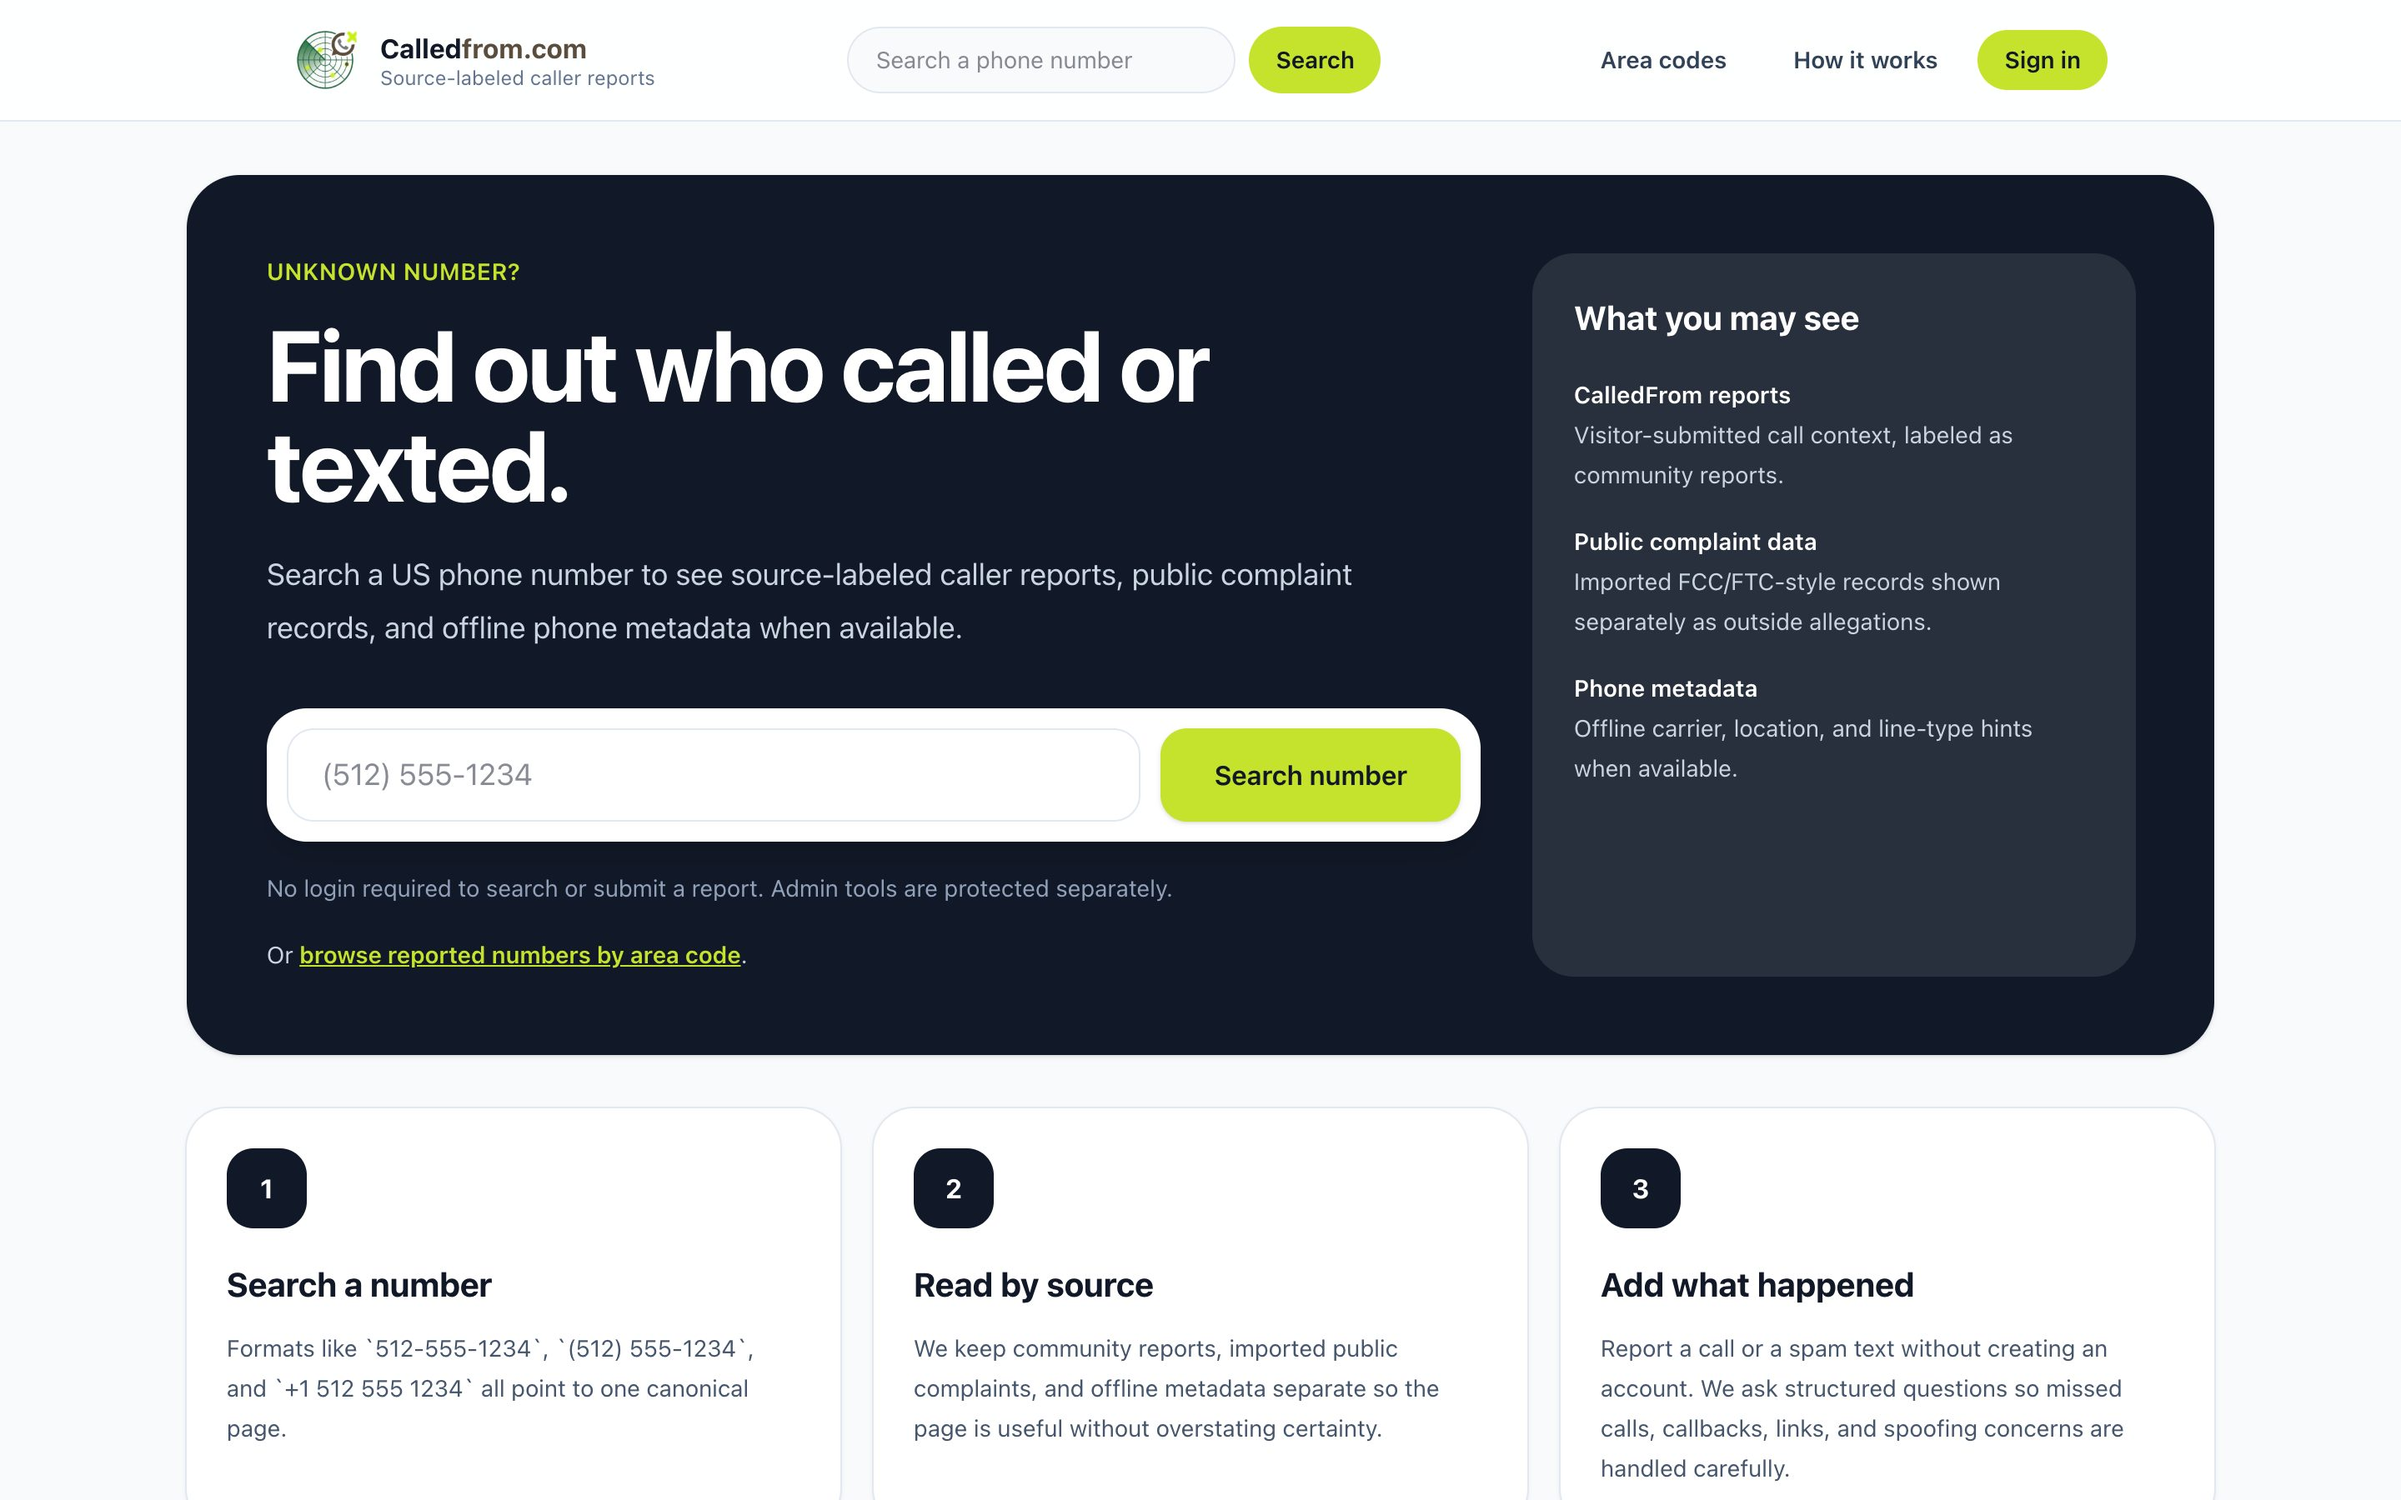
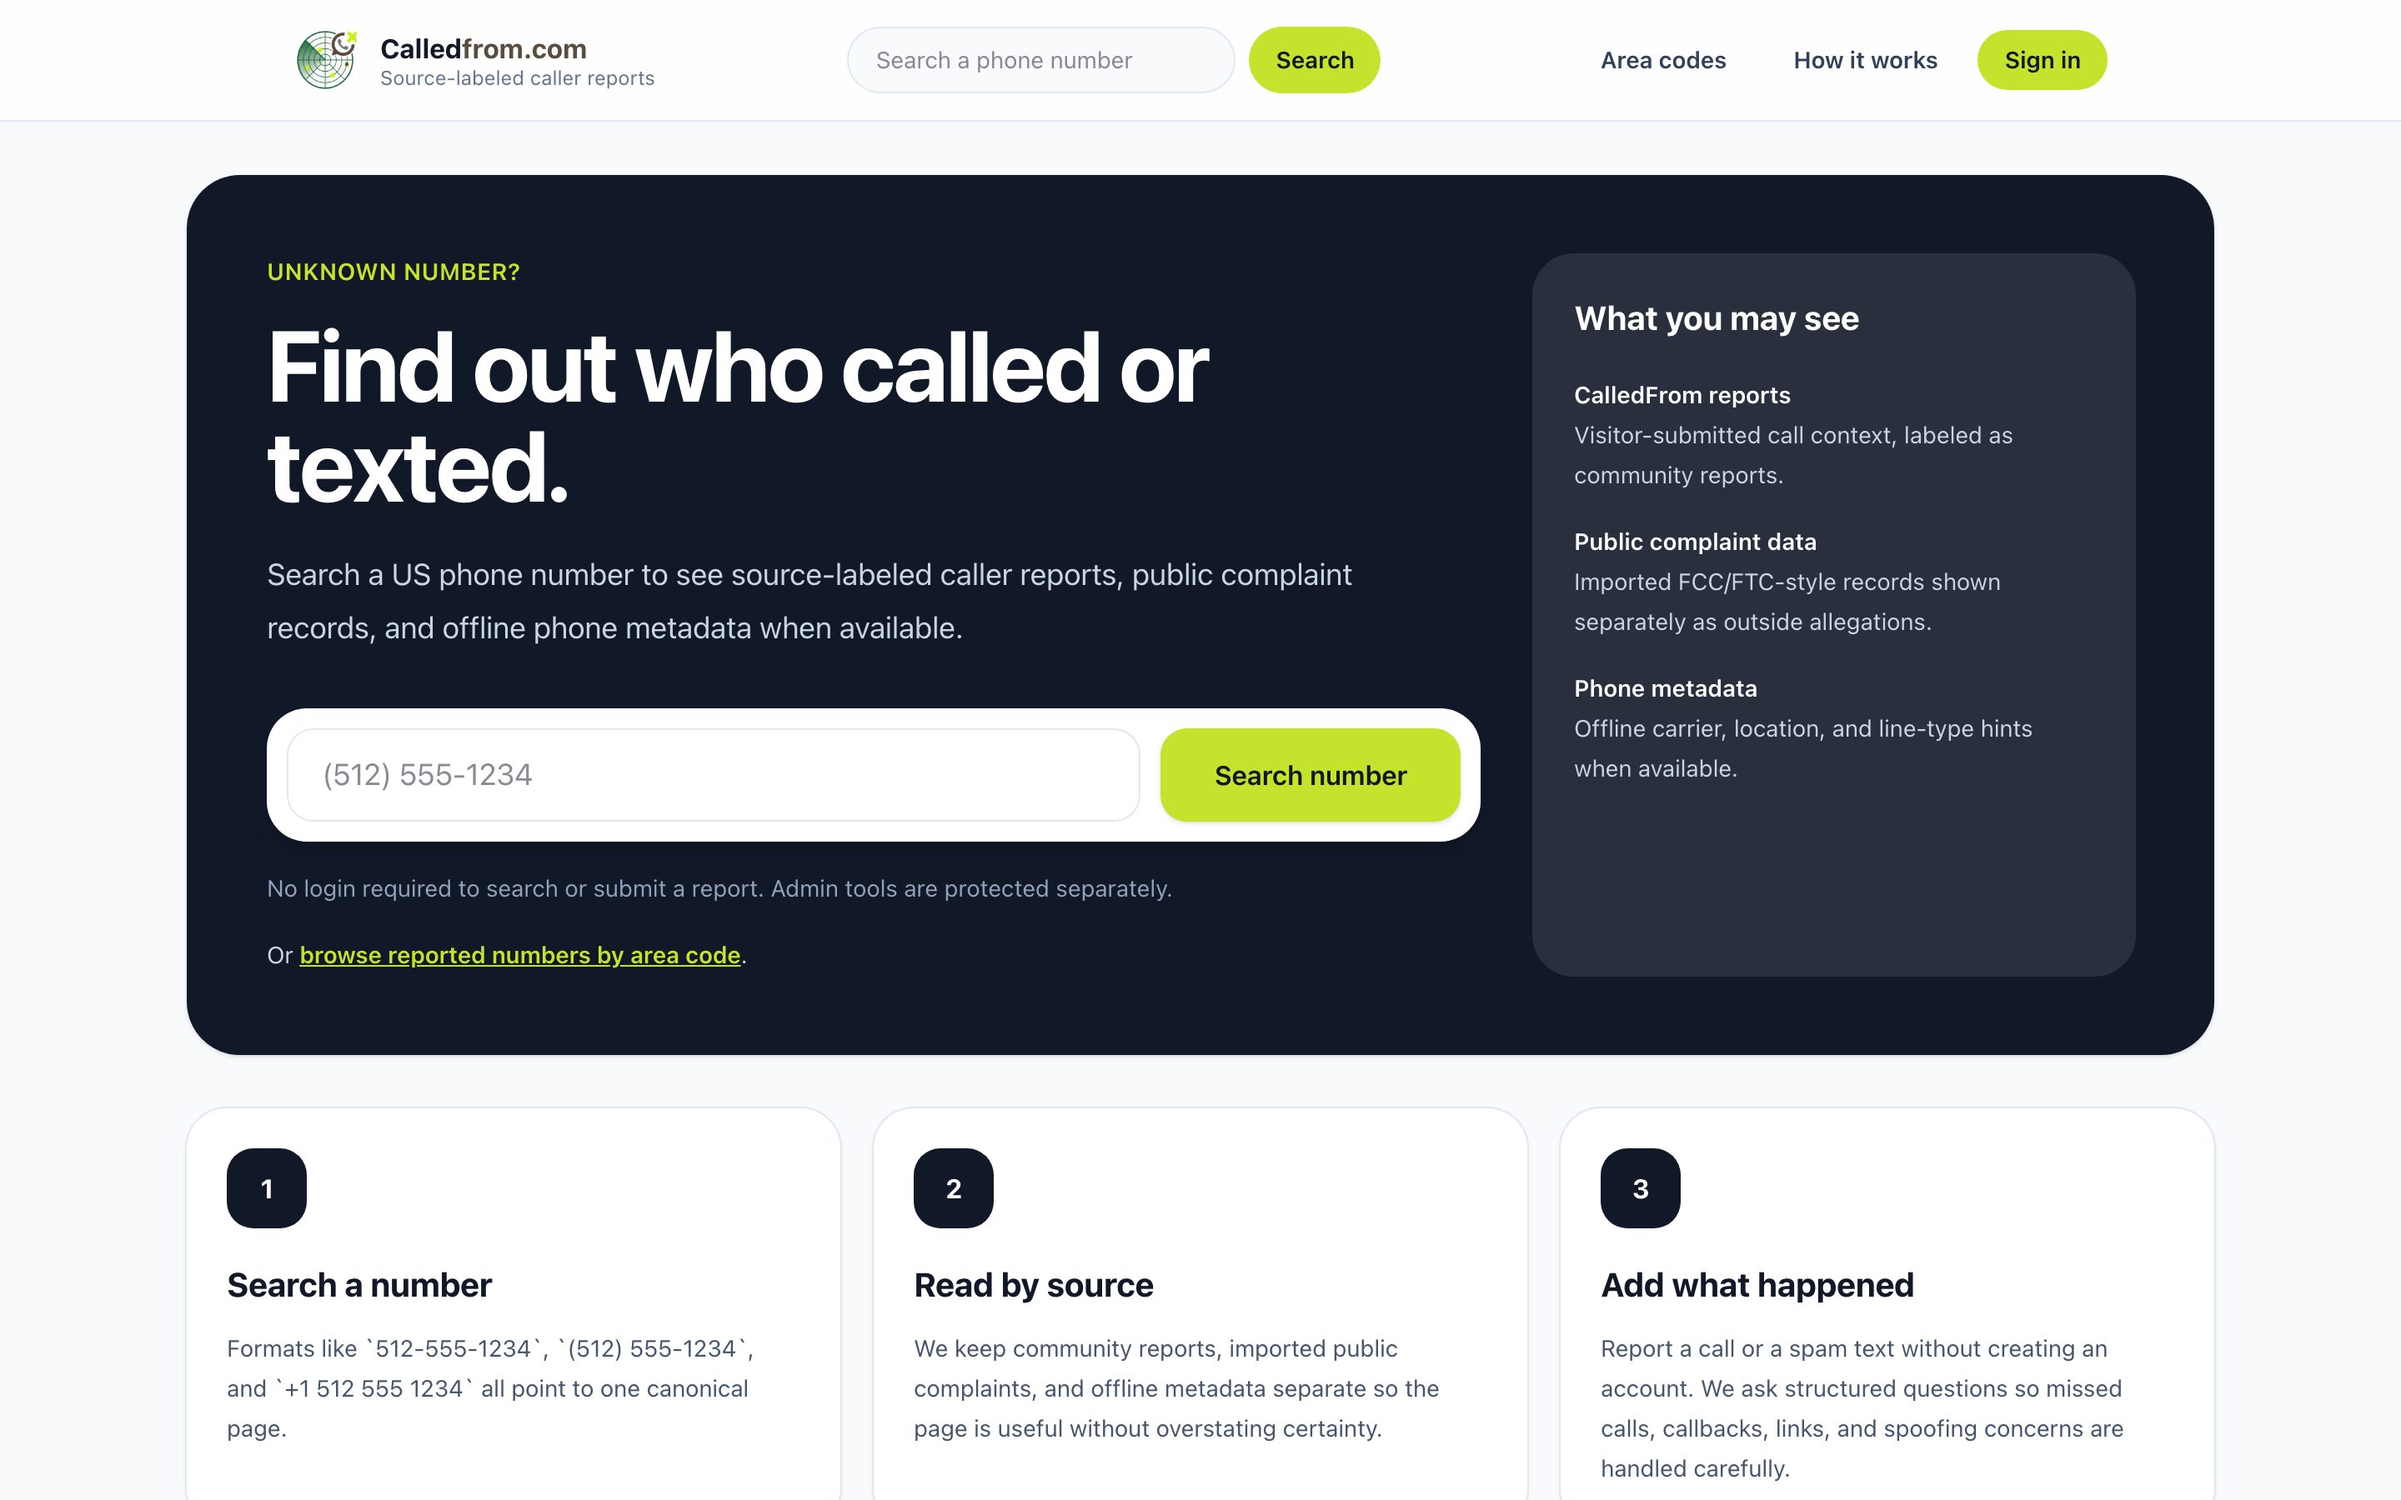
Fix blank CalledFrom card caused by rail reveal opacity.
Work panels sit offscreen horizontally so scroll-reveal never flips them visible; show them always and refresh the static JPEG.

Changed region(s): [[0.5312, 0.4978, 0.5625, 0.5289]]

diff --git a/index.html b/index.html
@@ -27,7 +27,7 @@
         href="https://fonts.googleapis.com/css2?family=Instrument+Sans:ital,wght@0,400;0,500;0,600;0,700;1,400&family=Syne:wght@600;700;800&display=swap"
         rel="stylesheet">
 
-    <link rel="stylesheet" href="style.css?v=atelier12">
+    <link rel="stylesheet" href="style.css?v=atelier13">
 </head>
 
 <body>
@@ -75,7 +75,7 @@
             <div class="work-rail-wrap">
                 <div class="work-rail" id="work-rail" tabindex="0" aria-label="Shipped systems">
                     <div class="work-track" id="work-track">
-                        <article class="work-panel reveal" data-reveal>
+                        <article class="work-panel">
                             <div class="work-shot" aria-hidden="true">
                                 <div class="work-shot__chrome"><span></span><span></span><span></span></div>
                                 <div class="work-shot__frame">
@@ -91,7 +91,7 @@
                                 </div>
                             </div>
                         </article>
-                        <article class="work-panel reveal" data-reveal>
+                        <article class="work-panel">
                             <div class="work-shot" aria-hidden="true">
                                 <div class="work-shot__chrome"><span></span><span></span><span></span></div>
                                 <div class="work-shot__frame">
@@ -107,7 +107,7 @@
                                 </div>
                             </div>
                         </article>
-                        <article class="work-panel reveal" data-reveal>
+                        <article class="work-panel">
                             <div class="work-shot" aria-hidden="true">
                                 <div class="work-shot__chrome"><span></span><span></span><span></span></div>
                                 <div class="work-shot__frame">
@@ -123,7 +123,7 @@
                                 </div>
                             </div>
                         </article>
-                        <article class="work-panel reveal" data-reveal>
+                        <article class="work-panel">
                             <div class="work-shot" aria-hidden="true">
                                 <div class="work-shot__chrome"><span></span><span></span><span></span></div>
                                 <div class="work-shot__frame">
@@ -139,11 +139,11 @@
                                 </div>
                             </div>
                         </article>
-                        <article class="work-panel reveal" data-reveal>
+                        <article class="work-panel">
                             <div class="work-shot" aria-hidden="true">
                                 <div class="work-shot__chrome"><span></span><span></span><span></span></div>
                                 <div class="work-shot__frame">
-                                    <img src="images/work/calledfrom.jpg?v=filled1" alt="" width="1440" height="900" loading="lazy" decoding="async">
+                                    <img src="images/work/calledfrom.jpg?v=filled2" alt="" width="1440" height="900" loading="lazy" decoding="async">
                                 </div>
                             </div>
                             <div class="work-body">
@@ -240,7 +240,7 @@
         </div>
     </footer>
 
-    <script src="script.js?v=atelier12"></script>
+    <script src="script.js?v=atelier13"></script>
 </body>
 
 </html>

diff --git a/studio.css b/studio.css
@@ -728,9 +728,12 @@ body {
     will-change: auto;
 }
 
-/* Horizontal rail panels: opacity only — vertical lift fights page scroll */
-.js-ready .work-panel.reveal {
-    transform: none;
+/* Horizontal rail panels never use reveal opacity — off-screen cards
+   would stay invisible because IntersectionObserver can't see them. */
+.js-ready .work-panel.reveal,
+.js-ready .work-panel {
+    opacity: 1;
+    will-change: auto;
 }
 
 @media (prefers-reduced-motion: reduce) {

diff --git a/style.css b/style.css
@@ -728,9 +728,12 @@ body {
     will-change: auto;
 }
 
-/* Horizontal rail panels: opacity only — vertical lift fights page scroll */
-.js-ready .work-panel.reveal {
-    transform: none;
+/* Horizontal rail panels never use reveal opacity — off-screen cards
+   would stay invisible because IntersectionObserver can't see them. */
+.js-ready .work-panel.reveal,
+.js-ready .work-panel {
+    opacity: 1;
+    will-change: auto;
 }
 
 @media (prefers-reduced-motion: reduce) {

diff --git a/contact.html b/contact.html
@@ -23,7 +23,7 @@
         href="https://fonts.googleapis.com/css2?family=Instrument+Sans:ital,wght@0,400;0,500;0,600;0,700;1,400&family=Syne:wght@600;700;800&display=swap"
         rel="stylesheet">
 
-    <link rel="stylesheet" href="style.css?v=atelier12">
+    <link rel="stylesheet" href="style.css?v=atelier13">
 </head>
 
 <body>
